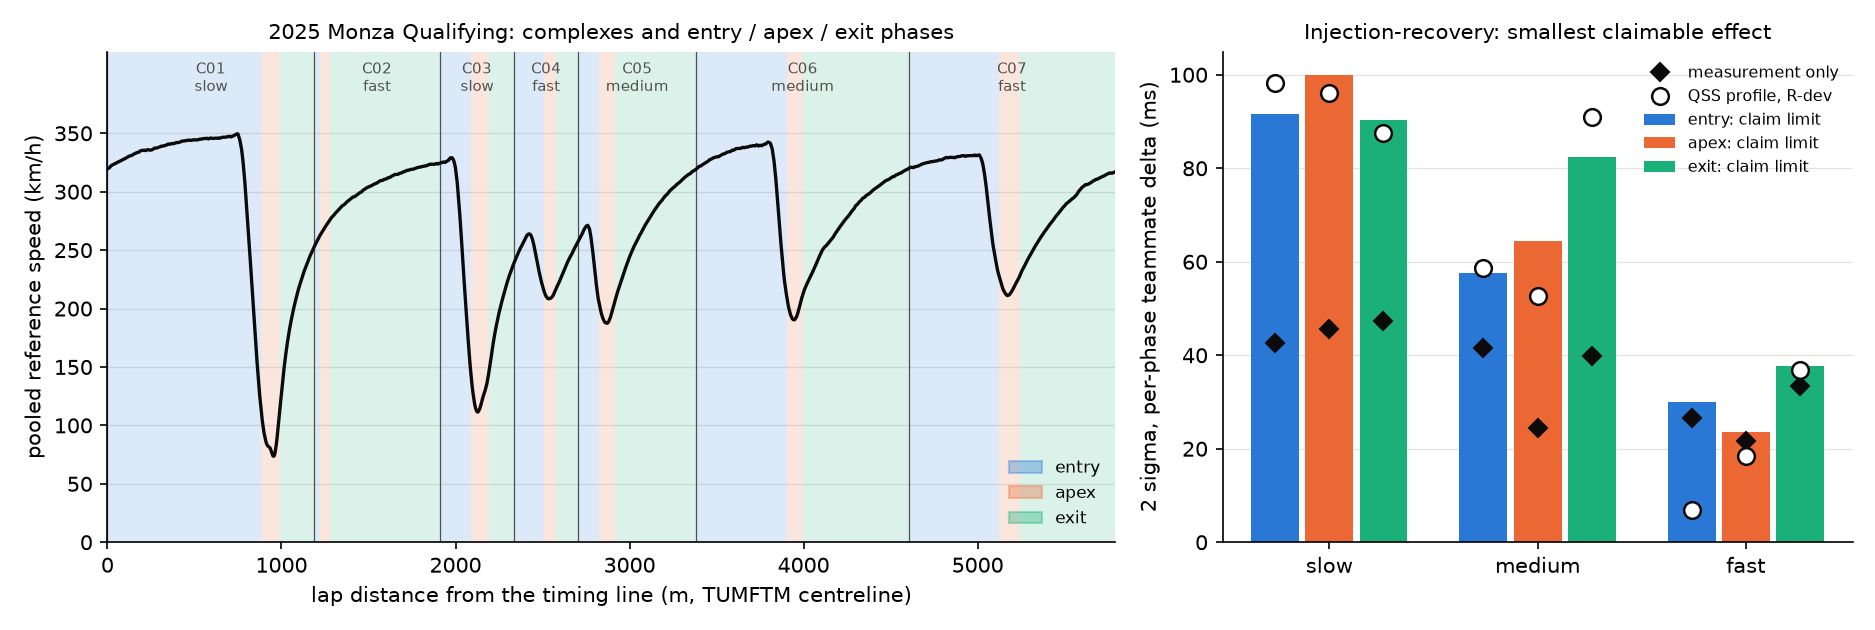
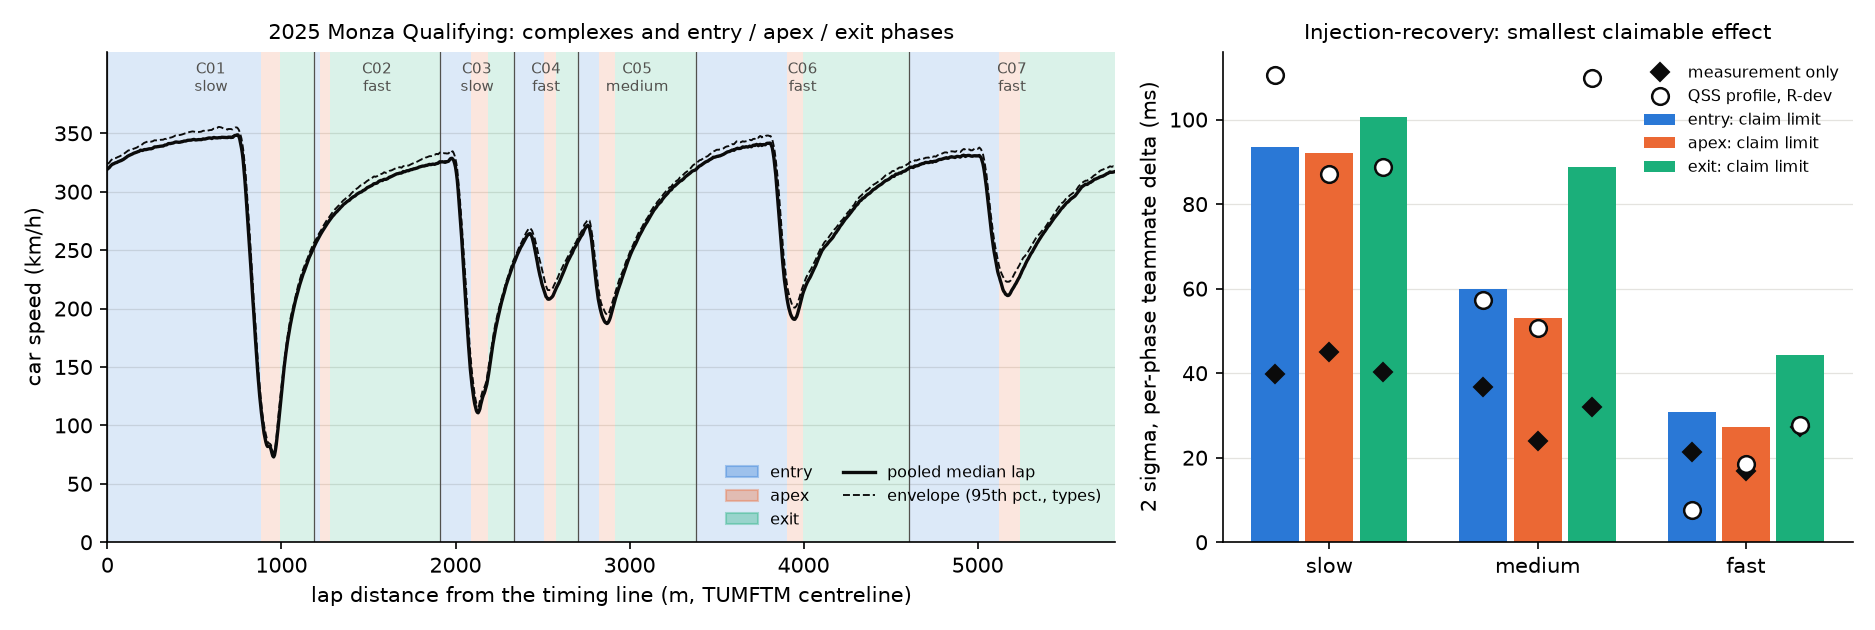
docs: drivers-lite pilot findings regenerated from the corrected pipeline
All numbers recomputed (outputs/drivers-lite/; the first version is archived in
outputs/drivers-lite/archive-v1/). Headline changes: teammate laps matched within Q
segments; stratified placebo p = 0.002; split-half rho 0.14 / 0.10 / 0.11 with
pair-level permutation p; shuffled real cells exceed the synthetic claim limits 11%
of the time (limits ~1.36x too narrow); the smoother optimum is now inside the grid
(jerk 400, speed sigma 1.2); out-of-sample false positives 6.1%; the proposed 8 m
excursion gate separates current from old layouts in 2023 and 2024 as well.

diff --git a/docs/findings/drivers-pilot.md b/docs/findings/drivers-pilot.md
@@ -2,7 +2,7 @@
 
 *Pilot of plan section 3.4 (method: plan-v1 section 6). It tests the measurement pipeline, not the drivers. Every teammate number below is an example of what the pipeline outputs, with its error bars; none of it is a claim about who is faster.*
 
-Code: `src/apexzero/drivers/`, run by `scripts/drivers_pilot.py` (stages `registration`, `pilot`, `tune`, `injection`, `report`). Data: OpenF1 (CC BY-NC-SA 4.0) and the TUMFTM centrelines.
+Code: `src/apexzero/drivers/`, run by `scripts/drivers_pilot.py` (stages `registration`, `pilot`, `tune`, `injection`, `report`). Data: OpenF1 (CC BY-NC-SA 4.0) and the TUMFTM centrelines. This is the second version, after code review; section 9 lists what changed.
 
 **Lockbox.** The circuits that pass registration are all R-test circuits. Only the public telemetry is registered and timed on them. No RL agent, OCP or QSS lap is evaluated on them. Injection-recovery laps on these circuits use each session's own pooled speed profile. The QSS-profile check and the smoother tuning run on R-dev geometry only (`qss_model` refuses R-test names in code). The synthetic noise *levels* are calibrated against the real pilot sessions (section 2). That measures the feed; it does not fit anything to those circuits.
 
@@ -33,10 +33,19 @@ No TUMFTM centreline: Jeddah, Miami, Imola, Monte Carlo, Baku, Singapore, Las Ve
 
 **Reading.**
 
-- The plan's gate rejects all 4 outdated TUMFTM layouts, as it should. It also rejects 8 of the 12 current layouts. It passes only Suzuka, Montreal, Spa-Francorchamps, Monza.
-- The likely cause is the feed's track model, which is not the centreline. In corners tighter than 150 m radius it sits 0.6 to 2.8 m to the inside, and its lap is 0.4 to 1.6% shorter. That looks like a racing line. So both gate statistics measure the line as well as any registration error, and a twisty circuit can fail on the line alone.
-- The excursion beyond the TUMFTM edges separates the two groups much more sharply. At the 99th percentile it is at most +7.4 m on current layouts and at least +11.3 m on old ones. **Proposal, not applied here:** gate on excursion p99 <= 8 m and report RMS and length as diagnostics. On this table that would pass 12 of 12 current layouts and 0 of 4 old ones. The pilot keeps the plan's gate.
+- The plan's gate rejects all 4 outdated TUMFTM layouts, as it should. It also rejects 8 of the 12 current layouts. It passes only Suzuka, Montreal, Spa-Francorchamps, Monza, and that alone chose the four pilot circuits.
+- The likely cause is the feed's track model, which is not the centreline. In corners tighter than 150 m radius it sits 0.6 to 2.8 m to the inside, and its lap is 0.4 to 1.6% shorter. That looks like a racing line (an inference from these two statistics; not checked against an outside source). The 1% length test compares that line's length with the centreline's, so it is biased by design, and the 3 m RMS mixes in the lateral line offset. A twisty circuit can fail on the line alone.
+- The excursion beyond the TUMFTM edges separates the two groups much more sharply. At the 99th percentile it is at most +7.4 m on current layouts and at least +11.3 m on old ones. **Proposal, not applied here:** gate on excursion p99 <= 8 m and report RMS and length as diagnostics. On this table that would pass 12 of 12 current layouts and 0 of 4 old ones. The threshold was picked after looking at this table, so it is checked on other seasons below.
 - Projecting a racing-line model onto the centreline is still a fixed, monotone map, the same for every car. So s(t) stays comparable between teammates. The cost is a speed / centreline-rate ratio that varies along the lap. The smoother estimates it from all laps (section 2).
+
+**The proposed gate on seasons it was not chosen on.** The same registration on every mapped qualifying session of other years (same code, same 8 m threshold):
+
+| Season | Current layouts | Plan gate passes | Excursion gate passes | Max excursion p99, current (m) | Old layouts | Excursion gate passes (old) | Min excursion p99, old (m) |
+|---|---|---|---|---|---|---|---|
+| 2023 | 11 | 4 | 11 | +3.8 | 4 | 0 | +11.9 |
+| 2024 | 12 | 4 | 12 | +7.2 | 4 | 0 | +11.8 |
+
+The gate definition is the plan owner's call; it is flagged for them, and this pilot keeps the plan's gate as written. Checking the TUMFTM length against the official circuit length (which would catch layout changes without the line bias) was not done: it needs an official-length table that is not in the repository.
 
 ## 2. s(t) per lap, the held-out sector anchor, and synthetic calibration
 
@@ -44,50 +53,52 @@ What the feed looks like (measured on Monza 2025 while building the smoother):
 
 - Projected positions scatter about 2 m *along* the track, with heavy tails. A ~0.7 m pattern sits on top, the same for every car. The snapping audit's 13 cm is the lateral scatter only.
 - Speed comes in whole km/h, on its own ~3.7 Hz clock. The location and car_data clocks show no lag (best lag within +/-0.05 s).
-- `date_start` is off by up to ~0.1 s: consecutive laps disagree with start + duration by up to 0.2 s. Lap and sector durations are exact. The estimated start-time corrections below have a robust sd of 53 to 75 ms, close to the 58 ms of a uniform +/-0.1 s error.
+- `date_start` is off by up to ~0.1 s: consecutive laps disagree with start + duration by up to 0.2 s. Lap and sector durations are exact. The estimated start-time corrections below have a robust sd of 54 to 76 ms, close to the 58 ms of a uniform +/-0.1 s error.
 
-The smoother is an RTS smoother on [s, v, a] driven by white jerk. It fuses positions, speed and hard anchors at the official lap and sector times. Speed is modelled as a per-lap scale times a pooled path-ratio profile times ds/dt. The timing-line positions and each lap's start-time correction come from unanchored fits first. The median correction is pinned to zero, because a common shift is not identifiable. Hyperparameters were tuned on QSS-profile synthetic laps on R-dev geometry (Catalunya, Hockenheim). The result is jerk PSD 100 m^2/s^5 and speed sigma 1.2 m/s (pair-delta RMS 17.0 ms). The surface is flat: every grid point with speed sigma >= 0.7 m/s scored 17 to 22 ms.
+The smoother is an RTS smoother on [s, v, a] driven by white jerk. It fuses positions, speed and hard anchors at the official lap and sector times. Speed is modelled as a per-lap scale times a pooled path-ratio profile times ds/dt. The timing-line positions and each lap's start-time correction come from unanchored fits first. The median correction is pinned to zero, because a common shift is not identifiable. Hyperparameters were tuned on QSS-profile synthetic laps on R-dev geometry (Catalunya, Hockenheim), over jerk PSD 25, 50, 100, 400, 3000, 20000 m^2/s^5 x speed sigma 0.35, 0.7, 1.2, 2, 3.5, 6 m/s. The best point is jerk PSD 400 and speed sigma 1.2 m/s (pair-delta RMS 17.0 ms), inside the grid on both axes. The surface is flat: 12 of 36 grid points score within 10% of the best (17.0 to 18.4 ms).
 
-**Held-out sector anchor (plan gate 3).** Each lap is refitted without the S2/S3 line, the crossing time is predicted, and it is compared with the official S1 + S2. The same check on synthetic laps calibrates the synthetic feed. The line wobble (`SynthConfig.wobble_sd`) is the one chosen from [0.005, 0.009, 0.015, 0.022, 0.03] whose synthetic held-out spread is closest to the real one. Natural lap-to-lap variation is then set per corner type x phase, from the real within-driver spread minus the synthetic measurement error (table below).
+**Held-out sector anchor (plan gate 3).** Each lap is refitted without the S2/S3 anchor, the time it reaches the S2/S3 line is predicted, and it is compared with the official S1 + S2. For each lap the line's position is the median over the *other* laps, and the path-ratio profile is re-estimated without any S2 anchor; the start and S1 lines and the start-time corrections still use every lap. The same check on synthetic laps calibrates the synthetic feed. The line wobble (`SynthConfig.wobble_sd`) is the one chosen from [0.005, 0.009, 0.015, 0.022, 0.03] whose synthetic held-out spread is closest to the real one. Natural lap-to-lap variation is then set per corner type x phase, from the real within-driver spread minus the synthetic measurement error (table below).
 
-| Session | Laps fitted | Held-out bias (ms) | Held-out robust sd (ms) | p95 abs (ms) | Synthetic robust sd (ms) | Wobble | Start corr. sd (ms) | Position sigma (m) |
+| Session | Laps fitted | Median (ms; line offset, not a bias) | Held-out robust sd (ms) | p95 abs (ms) | Synthetic robust sd (ms) | Wobble | Start corr. sd (ms) | Position sigma (m) |
 |---|---|---|---|---|---|---|---|---|
-| 2025 Suzuka Qualifying | 93 | -28 | 9.9 | 49 | 9.0 | 0.009 | 65 | 1.55 |
-| 2025 Montreal Qualifying | 88 | -3 | 15.4 | 35 | 17.4 | 0.022 | 53 | 1.77 |
-| 2025 Spa-Francorchamps Qualifying | 84 | +2 | 18.5 | 31 | 15.8 | 0.022 | 75 | 1.73 |
-| 2025 Monza Qualifying | 92 | -1 | 11.1 | 22 | 16.7 | 0.022 | 68 | 1.69 |
+| 2025 Suzuka Qualifying | 89 | -23 | 11.5 | 46 | 10.5 | 0.009 | 65 | 1.47 |
+| 2025 Montreal Qualifying | 87 | -13 | 16.1 | 41 | 17.4 | 0.022 | 54 | 1.65 |
+| 2025 Spa-Francorchamps Qualifying | 83 | +5 | 18.9 | 31 | 15.7 | 0.015 | 76 | 1.65 |
+| 2025 Monza Qualifying | 93 | -5 | 12.2 | 26 | 12.6 | 0.015 | 67 | 1.58 |
 
 Within-driver spread of phase times (real, laps of one driver in one Q segment) against the synthetic measurement error at the calibrated wobble, median over a circuit's cells of each type, in ms (real / synthetic measurement). Where the synthetic number is larger, the synthetic feed is noisier than the real one there, which makes the budget conservative; natural variation is then set to zero.
 
 | Session | slow entry | slow apex | slow exit | medium entry | medium apex | medium exit | fast entry | fast apex | fast exit |
 |---|---|---|---|---|---|---|---|---|---|
-| 2025 Suzuka | 44 / 17 | 44 / 20 | 52 / 18 | 32 / 10 | 32 / 8 | 28 / 8 | 14 / 4 | 12 / 5 | 8 / 3 |
-| 2025 Montreal | 39 / 22 | 45 / 23 | 49 / 27 | 30 / 32 | 30 / 12 | 51 / 22 | 2 / 4 | 9 / 11 | 26 / 19 |
-| 2025 Spa-Francorchamps | 55 / 29 | 63 / 31 | 52 / 21 | 26 / 22 | 33 / 14 | 46 / 24 | 7 / 9 | 9 / 11 | 12 / 18 |
-| 2025 Monza | 50 / 23 | 43 / 24 | 32 / 21 | 28 / 24 | 21 / 10 | 46 / 29 | 18 / 17 | 11 / 9 | 20 / 19 |
+| 2025 Suzuka | 49 / 14 | 40 / 20 | 58 / 13 | 35 / 9 | 20 / 6 | 27 / 9 | 15 / 7 | 13 / 5 | 15 / 4 |
+| 2025 Montreal | 40 / 23 | 46 / 26 | 50 / 27 | 29 / 29 | 30 / 13 | 51 / 19 | 2 / 4 | 9 / 10 | 26 / 16 |
+| 2025 Spa-Francorchamps | 53 / 21 | 64 / 22 | 52 / 15 | 27 / 19 | 33 / 9 | 47 / 18 | 7 / 7 | 8 / 8 | 13 / 12 |
+| 2025 Monza | 50 / 18 | 43 / 19 | 34 / 18 | 16 / 7 | 19 / 8 | 45 / 18 | 27 / 17 | 18 / 7 | 33 / 14 |
 
-In 6 of 36 circuit x cell combinations the synthetic measurement error alone exceeds the real total spread. Real lap-to-lap variation is several times larger in slow phases than in fast ones, which is why natural variation is set per cell and not as one number.
+In 3 of 36 circuit x cell combinations the synthetic measurement error alone exceeds the real total spread. Real lap-to-lap variation is several times larger in slow phases than in fast ones, which is why natural variation is set per cell and not as one number.
 
-A single crossing time far from the anchors is good to 10 to 18 ms (robust sd). The synthetic column comes from the injection runs themselves. The per-session biases (-28 to +2 ms) are common to every lap of a session, so they cancel between teammates. They do show a model mismatch near that line that a physics reference would inherit.
+A single crossing time far from the anchors is good to 11 to 19 ms (robust sd); that spread is the held-out statistic. The synthetic column comes from the injection runs themselves. The per-session medians (-23 to +5 ms) are not an absolute bias and say nothing about a physics reference: the line position itself comes from the unanchored fits, so the median only measures how far the anchored and unanchored fits disagree about where the S2 line is. It is common to all laps of a session and cancels between teammates.
 
-**Segmentation.** Complexes per circuit: Suzuka 9, Montreal 9, Spa-Francorchamps 12, Monza 7. The plan asks for 12-20. Corners less than 80 m apart always merge, because at 3.7 Hz (one sample every 6-25 m) a chicane's halves cannot be timed apart. Below 12, the code keeps the natural count rather than splitting chicanes or straights to fill a quota. Each complex is split into entry / apex / exit at positions on the pooled reference speed, and typed by its apex speed (slow < 120, medium 120-200, fast > 200 km/h).
+**Segmentation.** Complexes per circuit: Suzuka 9, Montreal 9, Spa-Francorchamps 12, Monza 7. The plan asks for 12-20. Corners less than 80 m apart always merge, because at 3.7 Hz (one sample every 6-25 m) a chicane's halves cannot be timed apart. Below 12, the code keeps the natural count rather than splitting chicanes or straights to fill a quota. Each complex is split into entry / apex / exit at positions on the pooled (median) reference speed. It is typed (slow < 120, medium 120-200, fast > 200 km/h) by the observed envelope apex speed, as the plan specifies: the 95th percentile of the clean laps' own speed, a percentile rather than the maximum so that one bad fit cannot move a corner across a threshold. 2 of 37 complexes get a different type than the median lap would give them.
 
 ![pilot](drivers-pilot.png)
 
 ## 3. Lap filter
 
-| Session | Laps fitted (checks 1-7 passed) | Traffic (< 1.0 s ahead in a corner) | Pass every check | Exclusions before fitting (all laps) | Teammate pairs | Laps per driver in pairs |
-|---|---|---|---|---|---|---|
-| 2025 Suzuka Qualifying | 93 | 50 (54%) | 43 | untimed 104, out-lap 96, in-lap 76, not push 19, tyre MEDIUM 4, deleted 1 | 5 | 1: 3, 2: 7 |
-| 2025 Montreal Qualifying | 88 | 61 (69%) | 27 | out-lap 103, untimed 99, in-lap 83, tyre MEDIUM 78, not push 53, deleted 7 | 4 | 1: 3, 2: 5 |
-| 2025 Spa-Francorchamps Qualifying | 84 | 35 (42%) | 49 | out-lap 102, untimed 100, in-lap 82, not push 14, deleted 4, flag 2, tyre MEDIUM 2 | 6 | 1: 3, 2: 9 |
-| 2025 Monza Qualifying | 92 | 28 (30%) | 64 | untimed 104, out-lap 103, in-lap 83, not push 20, tyre MEDIUM 13, flag 7, deleted 4 | 10 | 1: 5, 2: 15 |
+| Session | Laps fitted (checks 1-7 passed) | Traffic (< 1.0 s ahead in a corner) | Pass every check | New set (of those) | Exclusions before fitting (all laps) | Teammate pairs | Laps per driver in pairs |
+|---|---|---|---|---|---|---|---|
+| 2025 Suzuka Qualifying | 89 | 47 (53%) | 42 | 36 | untimed 104, out-lap 96, in-lap 76, not push 18, tracking: position gap 2.4 s 4, tyre MEDIUM 4, deleted 2 | 7 | 1: 7, 2: 5, 3: 1, 4: 1 |
+| 2025 Montreal Qualifying | 87 | 60 (69%) | 27 | 14 | out-lap 103, untimed 99, in-lap 83, tyre MEDIUM 78, not push 52, deleted 7 | 4 | 1: 3, 2: 2, 3: 3 |
+| 2025 Spa-Francorchamps Qualifying | 83 | 35 (42%) | 48 | 37 | out-lap 102, untimed 100, in-lap 82, not push 15, deleted 4, flag 2, tyre MEDIUM 2 | 6 | 1: 3, 2: 5, 3: 1, 4: 1, 5: 1, 6: 1 |
+| 2025 Monza Qualifying | 93 | 29 (31%) | 64 | 50 | untimed 104, out-lap 103, in-lap 83, not push 17, tyre MEDIUM 13, flag 7, deleted 5 | 10 | 1: 5, 2: 7, 3: 3, 4: 3, 6: 2 |
 
-Traffic removes 30 to 69% of otherwise clean push laps. That is the plan's rule taken literally: any car less than 1.0 s ahead anywhere in any corner window. Spot checks at Montreal found real slow cars on out-laps and cool-down laps, on the racing line (the same lateral offset as fast cars, so not the pit lane). With the 102% rule per Q segment and shared Q segments required, pairs end up with 1-2 laps per driver (last column: laps -> number of drivers). That is the binding constraint on everything below. Tyre compounds come from the OpenF1 stints table only. Montreal's MEDIUM count is large and was not cross-checked.
+Traffic removes 31 to 69% of otherwise clean push laps. That is the plan's rule taken literally: any car less than 1.0 s ahead anywhere in any corner window. Spot checks at Montreal found real slow cars on out-laps and cool-down laps, on the racing line (the same lateral offset as fast cars, so not the pit lane). Other cars' positions are projected globally; samples more than 7 m from the centreline (pit lane, garage) and samples further from the previous one than a car can drive (branch jumps at Suzuka's crossover) are dropped. With the 102% rule per Q segment and laps compared only within a Q segment, pairs end up with 1 to 6 laps per driver (last column: laps -> number of drivers), most with 1 or 2. That is the binding constraint on everything below. *New set* is a covariate (the stints table's tyre age <= 1), not a filter. Tyre compounds come from the OpenF1 stints table only; Montreal's MEDIUM count is large and was not cross-checked against a second source.
+
+Deleted laps: race control's 'LAP n' is one ahead of OpenF1's lap numbering (in 2023-25 qualifying, 483 of the 489 deletion messages that give both a lap number and the deleted time give OpenF1 lap n - 1's time to the millisecond). The parser now matches the deleted time to a lap duration first, falls back to n - 1, and handles messages with neither (track-limit '(NEXT LAP PIT)' and double-yellow deletions) and reinstatements.
 
 ## 4. Injection-recovery error budget (plan gate 2)
 
-For each pilot circuit: 20 synthetic teammate pairs (10 pairs x 2 sessions), 3 laps per driver, comparing each driver's top-2 laps as in the real analysis. Every B driver got injected effects of +40 ms in each slow-corner entry, +20 ms in each medium-corner apex and -20 ms in each fast-corner exit. Every phase of every lap also carries natural variation at the calibrated per-cell level (section 2).
+For each pilot circuit: 20 synthetic teammate pairs (10 pairs x 2 sessions), 3 laps per driver in one Q segment, comparing each driver's top-2 laps as in the real analysis. Every B driver got injected effects of +40 ms in each slow-corner entry, +20 ms in each medium-corner apex and -20 ms in each fast-corner exit. Every phase of every lap also carries natural variation at the calibrated per-cell level (section 2).
 
 How the laps are degraded:
 
@@ -97,85 +108,136 @@ How the laps are degraded:
 - brake binarised (the timing pipeline does not use it);
 - start times jittered by +/-0.1 s.
 
-Then the laps go through the real pipeline.
+The laps then go through the real s(t), phase and teammate-delta code. **Held fixed, so not part of this budget:** registration (the session's transform is reused), segmentation and corner types (the session's), the lap filter, traffic and the Q-segment structure (every synthetic lap is a clean push lap in a single segment), and the track model (synthetic positions scatter about the TUMFTM centreline, not about a racing-line-like model as the real feed does). The line wobble is drawn independently for every lap; persistent per-car errors are added only in the sensitivity run below.
 
-*Measurement* = estimated minus true delta over the same laps: the pipeline's own error. *Recovered - injected* adds natural variation over 2 laps per driver. Its 2 sigma is the **claim limit**, the plan's "2 sigma of the resulting error".
+*Measurement* = estimated minus true delta over the same laps: the pipeline's own error. *Recovered - injected* adds natural variation over 2 laps per driver. Its 2 sigma is the **claim limit**, the plan's "2 sigma of the resulting error". It applies to a pair with 2 laps per driver in one Q segment; for other lap counts the example in section 6 scales it by sqrt(var factor) (`PairDelta.var_factor`), which assumes independent laps.
 
 | Corner type | Phase | Cells | Per-lap meas. sd (ms) | Meas. bias (ms) | Meas. 2 sigma (ms) | Injected (ms) | Recovered mean (ms) | Recovered - injected sd (ms) | **Claim limit (ms)** | QSS R-dev claim limit (ms) |
 |---|---|---|---|---|---|---|---|---|---|---|
-| slow | entry | 180 | 31 | -0.2 | 43 | +40 | +39.3 | 45.8 | **92** | 98 |
-| slow | apex | 180 | 29 | -0.4 | 46 | +0 | +1.2 | 50.0 | **100** | 96 |
-| slow | exit | 180 | 27 | -0.1 | 47 | +0 | -1.0 | 45.2 | **90** | 87 |
-| medium | entry | 260 | 23 | -1.3 | 42 | +0 | +1.1 | 28.8 | **58** | 59 |
-| medium | apex | 260 | 14 | +0.8 | 24 | +20 | +20.9 | 32.2 | **64** | 53 |
-| medium | exit | 260 | 21 | +0.4 | 40 | +0 | -2.3 | 41.2 | **82** | 91 |
-| fast | entry | 300 | 13 | -0.8 | 26 | +0 | -0.7 | 15.0 | **30** | 7 |
-| fast | apex | 300 | 11 | +0.1 | 22 | +0 | +0.5 | 11.8 | **24** | 18 |
-| fast | exit | 300 | 18 | +1.2 | 33 | -20 | -18.9 | 18.8 | **38** | 37 |
+| slow | entry | 180 | 36 | +0.0 | 40 | +40 | +43.5 | 46.8 | **94** | 111 |
+| slow | apex | 180 | 26 | -0.7 | 45 | +0 | -7.0 | 46.1 | **92** | 87 |
+| slow | exit | 180 | 33 | -1.1 | 40 | +0 | -1.3 | 50.3 | **101** | 89 |
+| medium | entry | 220 | 21 | +0.9 | 37 | +0 | -0.2 | 30.0 | **60** | 57 |
+| medium | apex | 220 | 14 | +0.1 | 24 | +20 | +19.2 | 26.5 | **53** | 51 |
+| medium | exit | 220 | 18 | -0.6 | 32 | +0 | +2.4 | 44.4 | **89** | 110 |
+| fast | entry | 340 | 11 | +0.1 | 21 | +0 | -0.4 | 15.4 | **31** | 8 |
+| fast | apex | 340 | 10 | -0.2 | 17 | +0 | -0.0 | 13.6 | **27** | 18 |
+| fast | exit | 340 | 15 | +0.8 | 27 | -20 | -19.2 | 22.2 | **44** | 28 |
 
-Complex level (entry + apex + exit), claim limit by corner type: slow 155 ms (measurement only 34); medium 108 ms (measurement only 40); fast 51 ms (measurement only 45).
+Complex level (entry + apex + exit), claim limit by corner type: slow 166 ms (measurement only 28); medium 113 ms (measurement only 31); fast 57 ms (measurement only 33).
 
 Corner type x phase summed over the lap (the driver-profile cells of the plan's model):
 
 | Cell | Pairs | Meas. sd (ms) | Injected total (ms) | Recovered - injected mean (ms) | Recovered - injected sd (ms) | Claim limit (ms) |
 |---|---|---|---|---|---|---|
-| slow entry | 80 | 29.2 | +90 | -1.5 | 63.4 | 127 |
-| slow apex | 80 | 38.2 | +0 | +2.7 | 69.2 | 138 |
-| slow exit | 80 | 36.2 | +0 | -2.3 | 74.8 | 150 |
-| medium entry | 80 | 35.7 | +0 | +3.7 | 49.5 | 99 |
-| medium apex | 80 | 17.6 | +65 | +2.8 | 55.2 | 110 |
-| medium exit | 80 | 34.5 | +0 | -7.4 | 71.4 | 143 |
-| fast entry | 80 | 24.2 | +0 | -2.7 | 27.4 | 55 |
-| fast apex | 80 | 20.3 | +0 | +1.8 | 22.2 | 44 |
-| fast exit | 80 | 32.0 | -75 | +4.0 | 33.4 | 67 |
+| slow entry | 80 | 30.1 | +90 | +8.0 | 66.5 | 133 |
+| slow apex | 80 | 34.3 | +0 | -15.6 | 65.3 | 131 |
+| slow exit | 80 | 30.7 | +0 | -2.9 | 75.1 | 150 |
+| medium entry | 80 | 30.1 | +0 | -0.4 | 53.6 | 107 |
+| medium apex | 80 | 18.8 | +55 | -2.2 | 42.1 | 84 |
+| medium exit | 80 | 26.1 | +0 | +6.6 | 71.4 | 143 |
+| fast entry | 80 | 21.5 | +0 | -1.9 | 34.8 | 70 |
+| fast apex | 80 | 18.2 | +0 | -0.1 | 29.5 | 59 |
+| fast exit | 80 | 26.1 | -85 | +3.2 | 45.8 | 92 |
 
-False positives: 5.8% of 1480 zero-injected phase cells exceed their claim limit (about 5% is expected at 2 sigma; neighbouring injected phases also leak into them). Detection: 11% of 180 injected slow-entry cells (+40 ms) exceed the limit with the right sign. The rates are 10% for medium-apex (+20 ms) and 14% for fast-exit (-20 ms).
+**False positives and detection, out of sample.** The claim limits are fitted on one synthetic session per circuit and scored on the other (and the reverse), so the rate is not 5% by construction. 6.1% of 1480 zero-injected phase cells exceed their limit (about 5% is expected at 2 sigma; neighbouring injected phases also leak into them). Detection, right sign and above the limit: slow entry (+40 ms) 16% of 180, medium apex (+20 ms) 12% of 220, fast exit (-20 ms) 11% of 340 cells.
 
-**Reading.** The injected effects come back unbiased within their error: recovered means are -2.3 to +1.2 ms off the injected values. The smallest claimable per-phase teammate effect, from one car-session with 2 laps per driver, is 24 to 100 ms depending on corner type and phase. The pipeline's own share is 22 to 47 ms. A +40 ms slow-corner entry is 0.4x its limit (92 ms), and one synthetic car-session flags it in only 11% of cases. Natural lap-to-lap variation, not the pipeline, dominates the limit in slow and medium phases. The pipeline's own error dominates in fast phases. Both average down with more laps per driver or more sessions per pair, as long as they are independent between laps. A per-car systematic error would not average down, and none is modelled. If car-sessions were independent, a season of 20 would bring the per-phase limits to 5 to 22 ms, and the corner type x phase lap sums to 10 to 33 ms (limit / sqrt(20)). That independence is an assumption; the split-half gate is what tests it. Ratios of QSS-profile limits (R-dev geometry, median calibration: wobble 0.022, natural 0 to 41 ms by cell) to pilot limits are 0.23 to 1.11, median 0.97. 8 of 9 cells agree within 25%. The exception is fast entry (0.23). There the calibrated natural variation is 0 ms, so the limit is measurement error alone, and that does depend on the profile. So the budget mostly does not hinge on the speed-profile shape. Per-lap errors also carry a part common to all laps. It cancels in teammate deltas, but it would not cancel against a physics reference (R2).
+**Reading.** The injected effects come back unbiased within their error: recovered means are -7.0 to +3.5 ms off the injected values. The smallest claimable per-phase teammate effect, from one car-session with 2 laps per driver, is 27 to 101 ms depending on corner type and phase. The pipeline's own share is 17 to 45 ms. A +40 ms slow-corner entry is 0.4x its limit (94 ms), and one synthetic car-session flags it in 16% of cases. Natural lap-to-lap variation, not the pipeline, dominates the limit in slow and medium phases. The pipeline's own error dominates in fast phases. Ratios of QSS-profile limits (R-dev geometry, median calibration: wobble 0.015, natural 3 to 46 ms by cell) to pilot limits are 0.25 to 1.24, median 0.95. 6 of 9 cells agree within 25%. The largest disagreement is fast entry (0.25), where the calibrated natural variation is 3 ms, so the limit is mostly measurement error, and that does depend on the profile.
+
+**Persistent per-car errors (sensitivity run).** The per-lap budget above lets every error average down over laps. Two that would not were added to the same synthetic sessions (same seeds; the persistent terms come from a separate random stream, so the true phase times and every other draw are identical): a line pattern shared by all of a driver's laps, as large as the calibrated per-lap wobble (0.009 to 0.022), as if a driver always took a different line than the pooled path-ratio profile assumes; and an along-track position offset per car of sd 1 m (antenna or transponder position). Each was run alone and then both together. These sizes are a scenario, not a measurement. The extra error they add to a teammate delta (sd over pairs and cells):
+
+| Corner type | Phase | Line pattern only (ms) | Position offset only (ms) | Both (ms) | Both, 2 sigma (ms) | Both, lap sum of the cell (ms) | Claim limit per car-session (ms) |
+|---|---|---|---|---|---|---|---|
+| slow | entry | 27.0 | 25.8 | 37.7 | 75 | 73.8 | 94 |
+| slow | apex | 24.3 | 2.4 | 24.1 | 48 | 32.8 | 92 |
+| slow | exit | 24.8 | 25.4 | 38.0 | 76 | 77.4 | 101 |
+| medium | entry | 21.6 | 11.2 | 25.6 | 51 | 54.2 | 60 |
+| medium | apex | 12.6 | 1.0 | 12.7 | 25 | 19.3 | 53 |
+| medium | exit | 22.4 | 9.3 | 24.6 | 49 | 43.9 | 89 |
+| fast | entry | 15.5 | 2.6 | 15.9 | 32 | 28.4 | 31 |
+| fast | apex | 10.0 | 1.0 | 10.1 | 20 | 22.4 | 27 |
+| fast | exit | 18.3 | 3.3 | 18.5 | 37 | 36.3 | 44 |
+
+Median over cells: 21.6 ms from the line pattern, 3.3 ms from the 1 m position offset. Unlike the per-lap errors, both are the same in every lap of a car, so more laps do not reduce them.
+
+**Season projection, qualified.** If 20 car-sessions per pair were independent and nothing about a car persisted, the per-phase limits would shrink to 6 to 23 ms (limit / sqrt(20)). A persistent per-car error does not shrink with more sessions. With the scenario above treated as such a floor, the per-phase limits only reach 21 to 79 ms, and the corner type x phase lap sums 43 to 158 ms. Neither number is a measured property of the feed: the persistent error sizes are assumed. Split-half across sessions (section 5) is the data's own test of what persists.
 
 ## 5. Placebo and split-half reliability (real data)
 
-**Placebo (gate 4).** Driver labels were shuffled within each car-session (449 shuffles, top-2 laps, shared Q segments, 669 phase cells). Shuffled deltas average +0.1 +/- 0.1 ms, so neither the pipeline nor the top-2 selection creates a driver effect by itself. Mean |delta| per cell is 29 ms shuffled versus 32 ms with the true labels. A permutation test on the sum of squared deltas over all cells gives p = 0.027. That is the probability that random labels explain at least as much phase-level variance as the real ones. Read it as weak, pooled evidence that the true labels carry some phase-level structure beyond lap-to-lap variation, not as a statement about any driver. Driver, setup and per-car measurement offsets are confounded in it. A per-cell test is not possible here: with 2 laps per driver there are only 3 distinct splits.
+**Placebo (gate 4).** Driver labels were shuffled within each car-session *and Q segment* (500 shuffles, top-2 laps per Q segment, 27 pairs, 723 phase cells). The signed mean of shuffled deltas is not reported: it is about zero by symmetry for any pipeline, so it tests nothing. Three statistics that can fail:
 
-**Split-half (gate 5).** The gate is Spearman rho >= 0.5.
+- *Synthetic limits against the real null.* 10.9% of shuffled cells exceed the synthetic claim limit for their corner type and phase (scaled to each pair's lap counts; 723 cells). If the synthetic budget were as wide as the real null spread this would be about 5%; more means the synthetic budget is too narrow for the real data, less means it is too wide. Shuffled real data still contain any real effect, mixed between the labels, which pushes this share up. With the true labels the share is 14.0%. For 5% of shuffled cells to exceed them, the limits would have to be 1.36x wider; until that is understood, the section 4 limits should be read as optimistic.
+- *Real against shuffled |delta|, per corner type x phase* (1 = the true labels explain nothing beyond lap-to-lap variation):
 
-| Split | Level | Cells | Spearman rho | p |
-|---|---|---|---|---|
-| odd vs even ranked laps, within session | phase | 372 | +0.29 | 1.2e-08 |
-| odd vs even ranked laps, within session | corner type x phase | 126 | +0.39 | 5.1e-06 |
-| alternate sessions (pairs in both halves) | corner type x phase | 72 | +0.11 | 0.37 |
+| Cell | slow entry | slow apex | slow exit | medium entry | medium apex | medium exit | fast entry | fast apex | fast exit |
+|---|---|---|---|---|---|---|---|---|---|
+| Mean abs. real / shuffled | 1.09 | 1.25 | 1.09 | 1.14 | 1.14 | 0.97 | 1.15 | 1.21 | 1.09 |
+| Cells | 58 | 58 | 58 | 67 | 67 | 67 | 116 | 116 | 116 |
 
-No split reaches the 0.5 gate. The within-session halves compare one lap with one lap, and only for pairs with 2+ clean laps each. Driver, setup and any per-car measurement offset (antenna position, transponder) are confounded in them. The across-session split has only the pairs that appear in both halves of four sessions. Both are underpowered pilots of the gate. The plan's version (odd vs even rounds over a season) needs the full calendar.
+- *Pooled permutation test.* The sum of squared deltas over all cells under the true labels against the same sum under shuffled labels gives p = 0.002: the probability that random labels explain at least as much phase-level variance as the real ones.
+
+A small p or a ratio above 1 says the labels carry structure. It does not say that structure is the driver's: setup and any per-car measurement offset (antenna position, a car that always takes a different line than the pooled profile assumes) are confounded with the label, and a within-car shuffle cannot tell them apart. A per-cell test is not possible here: with 2 laps per driver there are only 3 distinct splits.
+
+**Split-half (gate 5).** The gate is Spearman rho >= 0.5. Halves are cut inside each Q segment. The p-value flips the sign of whole pairs' second halves at random (2000 draws, one-sided), because cells of one pair share laps and session-level errors and are not independent; the naive p that treats every cell as independent is shown for comparison.
+
+| Split | Level | Pairs | Cells | Spearman rho | p (pair-level permutation) | p (naive) |
+|---|---|---|---|---|---|---|
+| odd vs even ranked laps, within session | phase | 13 | 345 | +0.14 | 0.026 | 0.0078 |
+| odd vs even ranked laps, within session | corner type x phase | 13 | 117 | +0.10 | 0.193 | 0.26 |
+| alternate sessions (pairs in both halves) | corner type x phase | 9 | 81 | +0.11 | 0.237 | 0.32 |
+
+No split reaches the 0.5 gate. The within-session halves need 2+ clean laps per driver in the same Q segment, so few pairs qualify and most compare one lap with one lap. Driver, setup and any per-car measurement offset are confounded in them. The across-session split has only the pairs that appear in both halves of four sessions. Both are underpowered pilots of the gate. The plan's version (odd vs even rounds over a season) needs the full calendar.
 
 ## 6. Example teammate per-corner table (pilot, not a ranking)
 
-2025 Spa-Francorchamps Qualifying, McLaren. Delta = PIA minus NOR, so positive means PIA took longer. Each driver contributes the mean of their top-2 clean laps in the shared Q segment(s) Q1, Q2, Q3. The lap delta is +17 ms, and the phase deltas below add up to it exactly. A cell would be **bold** only if it cleared both the claim limit for its corner type and phase and twice this car's own placebo spread.
+2025 Monza Qualifying, Ferrari. Delta = HAM minus LEC, so positive means HAM took longer. Laps are compared only within a Q segment (laps used: Q1: LEC 2, HAM 2; Q2: LEC 2, HAM 2; Q3: LEC 2, HAM 2); each segment's delta is the difference of the two drivers' mean phase times there (top-2 per driver), and the segments are averaged with weights 1 / (1/n_A + 1/n_B). The lap delta is +90 ms, and the phase deltas below add up to it exactly. A cell would be **bold** only if it cleared both the claim limit for its corner type and phase, scaled to these lap counts (x 0.58), and twice this car's own placebo spread.
 
 | Complex | Type | Entry (ms) | Apex (ms) | Exit (ms) | Complex (ms) | Above both limits |
 |---|---|---|---|---|---|---|
-| C01 | slow | -42 | -4 | +19 | -27 | - |
-| C02 | fast | +4 | +0 | +9 | +14 | - |
-| C03 | fast | -6 | -1 | +17 | +9 | - |
-| C04 | fast | +1 | +2 | -14 | -11 | - |
-| C05 | medium | +64 | +9 | +13 | +85 | - |
-| C06 | medium | +29 | +85 | -102 | +13 | - |
-| C07 | fast | -12 | -11 | -13 | -36 | - |
-| C08 | medium | +21 | +45 | -23 | +43 | - |
-| C09 | medium | +1 | +11 | -6 | +6 | - |
-| C10 | fast | +1 | +2 | +1 | +4 | - |
-| C11 | fast | +8 | +8 | -2 | +15 | - |
-| C12 | slow | -78 | -9 | -10 | -96 | - |
+| C01 | slow | -22 | -28 | -29 | -79 | - |
+| C02 | fast | -1 | -3 | -1 | -6 | - |
+| C03 | slow | -4 | +34 | -14 | +16 | - |
+| C04 | fast | +18 | +18 | +21 | +56 | - |
+| C05 | medium | +12 | +7 | +14 | +33 | - |
+| C06 | fast | **-34** | **+33** | +11 | +10 | entry, apex |
+| C07 | fast | +10 | +28 | +22 | +60 | - |
 
-With 1-2 laps per driver, single cells mostly sit inside the error budget. That is the expected pilot outcome. It is why the plan pools over a season with a hierarchical model before saying anything about a driver.
+Neither bold rule includes persistent per-car errors or the section 5 finding that the synthetic limits are too narrow for the real null. With the section 4 persistent-error scenario added to the limit (in quadrature, 2 sigma), C06 apex would still clear it and C06 entry would not. The table has 21 cells, and on shuffled real data 11% of cells exceed the limit (section 5), so about 2.3 cells above it are expected with no driver effect at all.
 
-## 7. Not done, or uncertain
+10 of 27 pilot pairs have clean laps from both drivers in more than one Q segment. With this few laps per driver, single cells mostly sit inside the error budget. That is the expected pilot outcome. It is why the plan pools over a season with a hierarchical model before saying anything about a driver.
 
-- **Registration gate.** As written it passes 4 of 12 current-layout 2025 circuits (section 1). The corridor-excursion gate is a proposal, checked only against this table.
+## 7. R1 envelope (input to the later model)
+
+R1 is, per car-session, the best time in each phase across both teammates' clean laps; the plan's model works on y = t - R1 per lap and phase. Summary only (no per-driver numbers). *Best lap - R1* is how far a car-session's best clean lap is from the sum of its best phases (car-sessions with 2+ clean laps); the last three columns are the median per-lap y summed over each corner type's phases.
+
+| Session | Car-sessions with clean laps | Median best lap - R1 (ms) | Range (ms) | Median y, slow (ms) | Median y, medium (ms) | Median y, fast (ms) |
+|---|---|---|---|---|---|---|
+| 2025 Suzuka Qualifying | 10 | 376 | 144 to 724 | 367 | 337 | 242 |
+| 2025 Montreal Qualifying | 10 | 217 | 151 to 869 | 506 | 351 | 74 |
+| 2025 Spa-Francorchamps Qualifying | 10 | 712 | 252 to 1008 | 326 | 493 | 251 |
+| 2025 Monza Qualifying | 10 | 510 | 180 to 660 | 371 | 88 | 382 |
+
+The R1 envelope is a minimum over a handful of noisy laps, so it is biased low (more laps, lower envelope), and with one clean lap a car-session's y is zero everywhere. Teammate deltas do not depend on it.
+
+## 8. Not done, or uncertain
+
+- **Registration gate.** As written it passes 4 of 12 current-layout 2025 circuits (section 1), and that is what limits the pilot to four circuits. The corridor-excursion gate is a proposal; it is flagged to the plan owner, not applied.
 - **Scope.** Four circuits, one qualifying session each. Sprint qualifying was not run. Most circuits stay below the plan's 12 complexes because chicanes are never split.
-- **Synthetic realism.** The synthetic feed is calibrated on two statistics per session (held-out S2 spread; within-driver spread per corner type x phase). The single wobble knob stands in for every unmodelled error source, so how the measurement error splits between phases is a model assumption (section 2 table). Natural variation is Gaussian and independent between phases. The ~0.7 m position pattern common to all cars is not synthesised; it is common-mode, but that it cancels is untested. No clock latency (none was measured) and no per-car antenna offsets are modelled. The QSS check profiles are computed on the centreline, not a racing line.
-- **Smoother.** Tuning picked the stiffest acceleration model on the grid (jerk PSD 100), on a flat error surface. Held-out biases of -28 to +2 ms show it misfits some real braking zones in a way common to all laps.
-- **Lap filter.** Compounds come from the stints table only, with no new/used flag. Traffic uses other cars' raw projections; samples more than 7 m from the centreline (pit lane, garage) are ignored. The tow flag is computed but unused.
+- **Synthetic realism.** The synthetic feed is calibrated on two statistics per session (held-out S2 spread; within-driver spread per corner type x phase). The single wobble knob stands in for every unmodelled error source, so how the measurement error splits between phases is a model assumption (section 2 table). Natural variation is Gaussian and independent between phases. Persistent per-car errors are only a sensitivity scenario with assumed sizes (section 4). The ~0.7 m position pattern common to all cars is not synthesised; it is common-mode, but that it cancels is untested. No clock latency (none was measured). The QSS check profiles are computed on the centreline, not a racing line.
+- **The synthetic budget looks too narrow.** On shuffled real data 11% of cells exceed the claim limits instead of about 5% (section 5); the limits would need to be 1.36x wider. Part of that may be real effects mixed into the shuffles, part unmodelled real error.
+- **Smoother.** The tuned point is inside the extended grid. The error surface is flat near the optimum.
+- **Lap filter.** Compounds come from the stints table only (no second source). The new-set flag is a covariate and the tow flag is computed, but neither enters the teammate deltas yet.
 - **Not built (later plan steps).** The hierarchical model (M1/M2), R2 calibration, the circularity check, the multiverse and external validity. Brake and throttle are loaded but unused.
-- **Underpowered gates.** The claim limits assume 2 laps per driver, and many real pairs have 1. The placebo tests label exchangeability within car-sessions, not across a season.
+- **Underpowered gates.** Many real pairs have 1 lap per driver in a segment. The placebo tests label exchangeability within car-sessions, not across a season.
 
-Compute: the pilot stage took 80 s of CPU over four sessions. Registration takes ~2 s of CPU per session; calibration, injection-recovery and tuning take a few minutes each. Everything ran single-process at nice 15 on the M3 Pro alongside other jobs.
+Compute: the pilot stage took 71 s of CPU over four sessions. Registration takes ~2 s of CPU per session; calibration, injection-recovery and tuning take a few minutes each. Everything ran single-process at nice 15 on the M3 Pro alongside other jobs.
+
+## 9. Changes after code review
+
+The first version (archived with its outputs in `outputs/drivers-lite/archive-v1/`) had these problems; every number above is from the corrected code.
+
+- **Teammate laps from different Q segments.** Each driver's top-2 laps were taken from all shared Q segments together, so in 4 of 25 pairs (including the old Spa example table) one driver's laps came from a different segment than the other's, and track evolution entered the delta. Laps are now compared only within a segment; a test checks that a Q-segment-wide offset leaves every delta unchanged. The placebo and split-half are stratified by Q segment too. The first version's placebo p = 0.027 and split-half rho 0.29 / 0.39 / 0.11 are superseded.
+- **Deleted laps off by one.** Race control's 'LAP n' was read as OpenF1 lap n; it is lap n - 1. Every deletion flagged the lap after the deleted one, and two truly deleted push laps (Spa, Monza) were in the clean tables.
+- **Placebo statistic.** The signed mean of shuffled deltas (zero by symmetry) was read as evidence; it is replaced by the statistics in section 5.
+- **In-sample false-positive rate.** The 5.8% was scored against limits fitted on the same synthetic cells; it is now out of sample.
+- **Held-out S2 not fully held out**, and its median read as a model bias (section 2). **Smoother grid** stopped at the optimum on both axes (jerk 100, speed sigma 1.2); it is wider now. **Calibration test** replayed one candidate's seed and wobble. **Interior position gaps** of up to 4.5 s were accepted. **Traffic** could see phantom cars at Suzuka's crossover. **Corner types** came from the median lap, not the envelope. **R1** was built but not reported.
